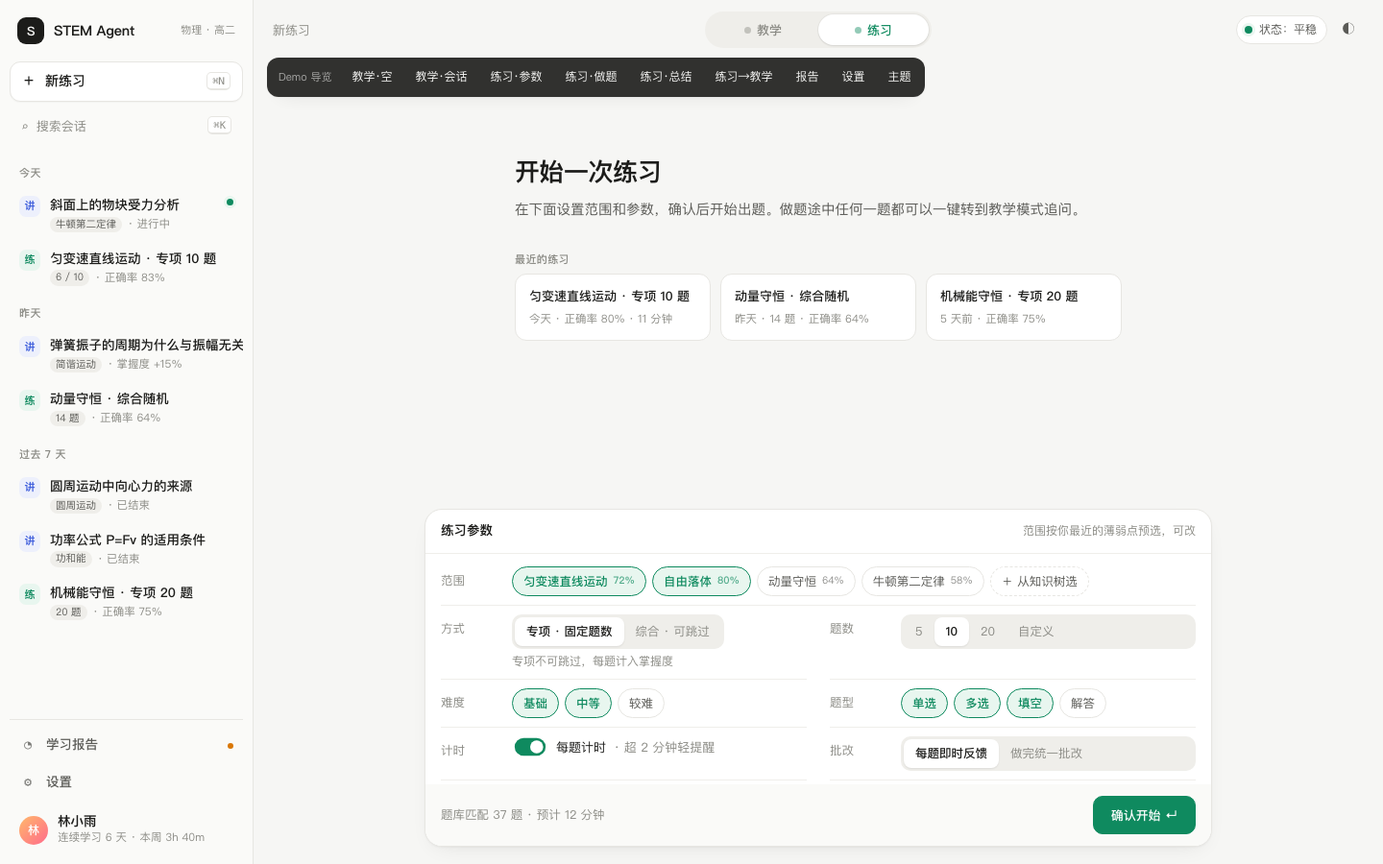
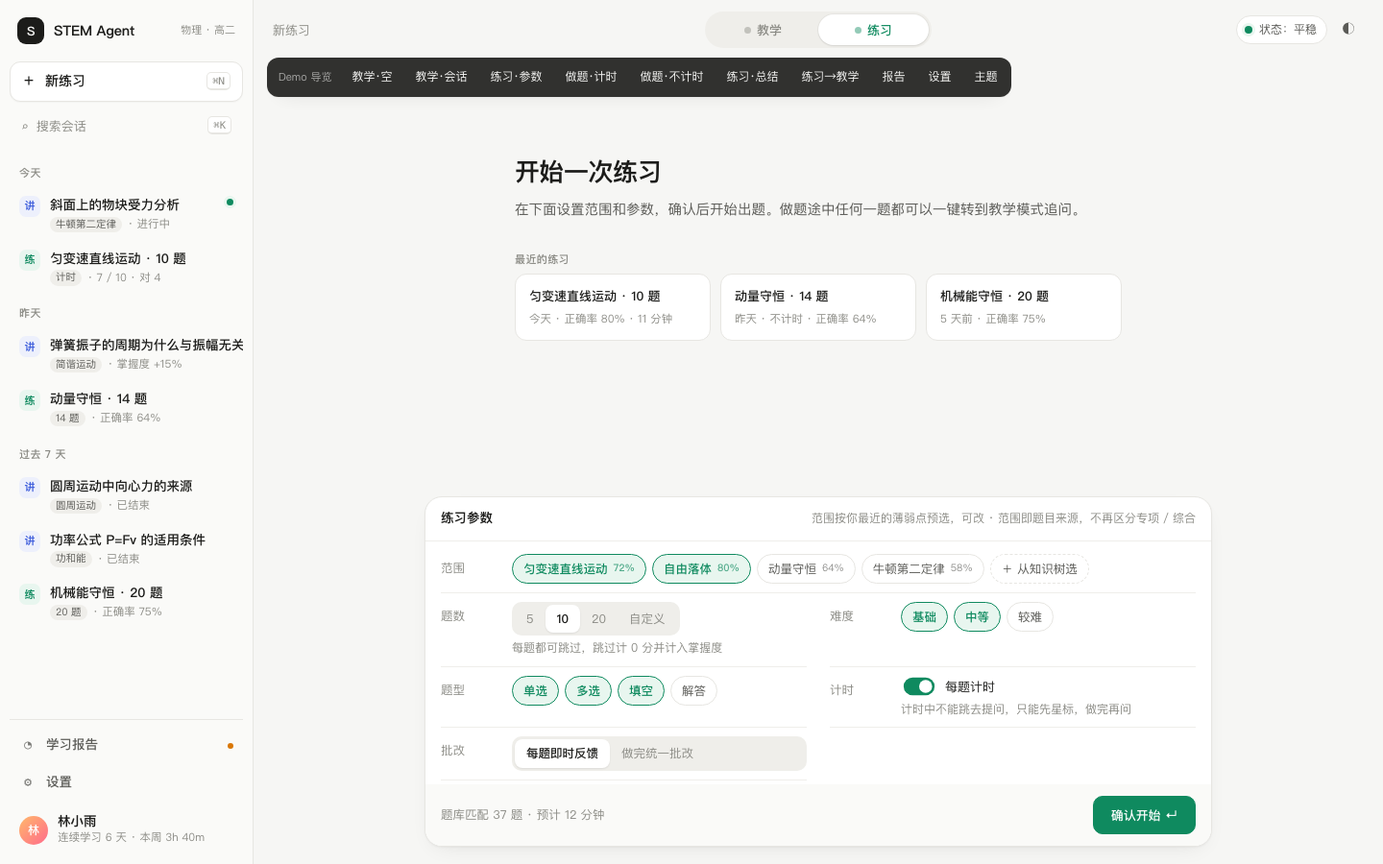
design: 练习取消专项/综合，单题展示，计时星标 / 不计时直接提问
Generated with [Claude Code](https://claude.ai/code)
via [Happy](https://happy.engineering)

diff --git a/docs/design/agent-ui-demo.html b/docs/design/agent-ui-demo.html
@@ -335,6 +335,14 @@
   .fb2 .sol { margin-top: 10px; padding: 12px 14px; border-radius: 10px; background: var(--panel-2); border: 1px solid var(--line-2); font-size: 13.5px; color: var(--ink-2); line-height: 1.7; }
   .fb2 .sol b { color: var(--ink); }
 
+  .qcard .qh .ask.star { color: var(--warn); }
+  .qcard .qh .ask.star:hover { border-color: var(--warn); background: var(--warn-soft); }
+  .qcard .qh .ask.star .t2 { display: none; }
+  .qcard .qh .ask.star.on { background: var(--warn-soft); border-color: var(--warn); }
+  .qcard .qh .ask.star.on .ic::before { content: "★"; } .qcard .qh .ask.star.on .ic { font-size: 0; } .qcard .qh .ask.star.on .ic::before { font-size: 13px; }
+  .qcard .qh .ask.star.on .t1 { display: none; } .qcard .qh .ask.star.on .t2 { display: inline; }
+  .pbar2 .dots button.star { box-shadow: 0 -5px 0 -2px var(--warn); }
+  .qfoot-note { text-align: center; margin-top: 14px; font-size: 12px; color: var(--ink-3); }
   /* bottom setup panel (replaces composer in practice mode before start) */
   .setup-panel { background: var(--panel); border: 1px solid var(--line); border-radius: 18px; box-shadow: var(--shadow); overflow: hidden; }
   .setup-panel .sh { display: flex; align-items: center; gap: 10px; padding: 12px 16px; border-bottom: 1px solid var(--line-2); font-weight: 600; font-size: 13.5px; }
@@ -371,6 +379,7 @@
   .ql .st.ok { background: var(--practice); } .ql .st.no { background: var(--bad); } .ql .st.skip { background: var(--warn); }
   .ql .t { white-space: nowrap; overflow: hidden; text-overflow: ellipsis; }
   .ql .tm { font-size: 11.5px; color: var(--ink-3); font-variant-numeric: tabular-nums; }
+  .ql.starred { border-color: var(--warn); background: var(--warn-soft); }
   .ql .ask { font-size: 12px; color: var(--teach); padding: 4px 9px; border-radius: 999px; border: 1px solid var(--line); }
   .ql .ask:hover { background: var(--teach-soft); border-color: var(--teach); }
 
@@ -466,15 +475,15 @@
       </button>
       <button class="sess" id="s-prac" onclick="go('practice')">
         <span class="glyph p">练</span>
-        <span><span class="ttl">匀变速直线运动 · 专项 10 题</span><span class="meta"><span class="tag">6 / 10</span>· 正确率 83%</span></span>
+        <span><span class="ttl">匀变速直线运动 · 10 题</span><span class="meta"><span class="tag">计时</span>· 7 / 10 · 对 4</span></span>
       </button>
       <div class="grp">昨天</div>
       <button class="sess"><span class="glyph t">讲</span><span><span class="ttl">弹簧振子的周期为什么与振幅无关</span><span class="meta"><span class="tag">简谐运动</span>· 掌握度 +15%</span></span></button>
-      <button class="sess"><span class="glyph p">练</span><span><span class="ttl">动量守恒 · 综合随机</span><span class="meta"><span class="tag">14 题</span>· 正确率 64%</span></span></button>
+      <button class="sess"><span class="glyph p">练</span><span><span class="ttl">动量守恒 · 14 题</span><span class="meta"><span class="tag">14 题</span>· 正确率 64%</span></span></button>
       <div class="grp">过去 7 天</div>
       <button class="sess"><span class="glyph t">讲</span><span><span class="ttl">圆周运动中向心力的来源</span><span class="meta"><span class="tag">圆周运动</span>· 已结束</span></span></button>
       <button class="sess"><span class="glyph t">讲</span><span><span class="ttl">功率公式 P=Fv 的适用条件</span><span class="meta"><span class="tag">功和能</span>· 已结束</span></span></button>
-      <button class="sess"><span class="glyph p">练</span><span><span class="ttl">机械能守恒 · 专项 20 题</span><span class="meta"><span class="tag">20 题</span>· 正确率 75%</span></span></button>
+      <button class="sess"><span class="glyph p">练</span><span><span class="ttl">机械能守恒 · 20 题</span><span class="meta"><span class="tag">20 题</span>· 正确率 75%</span></span></button>
     </div>
 
     <div class="rail-bottom">
@@ -582,25 +591,68 @@
           <p>在下面设置范围和参数，确认后开始出题。做题途中任何一题都可以一键转到教学模式追问。</p>
           <div class="grp" style="padding-left:0">最近的练习</div>
           <div class="recent">
-            <button class="rc" onclick="go('summary')"><b>匀变速直线运动 · 专项 10 题</b><span class="m">今天 · 正确率 80% · 11 分钟</span></button>
-            <button class="rc"><b>动量守恒 · 综合随机</b><span class="m">昨天 · 14 题 · 正确率 64%</span></button>
-            <button class="rc"><b>机械能守恒 · 专项 20 题</b><span class="m">5 天前 · 正确率 75%</span></button>
+            <button class="rc" onclick="go('summary')"><b>匀变速直线运动 · 10 题</b><span class="m">今天 · 正确率 80% · 11 分钟</span></button>
+            <button class="rc"><b>动量守恒 · 14 题</b><span class="m">昨天 · 不计时 · 正确率 64%</span></button>
+            <button class="rc"><b>机械能守恒 · 20 题</b><span class="m">5 天前 · 正确率 75%</span></button>
           </div>
         </div>
       </div>
 
-      <!-- ---------- VIEW: practice running ---------- -->
+      <!-- ---------- VIEW: practice running (timed) ---------- -->
       <div class="view" id="v-practice">
         <div class="pwrap">
           <div class="ptop">
             <div class="pbar2">
-              <span class="badge p">专项</span>
+              <span class="badge p">计时</span>
               <span>第 <span class="n">7</span> / 10 题</span>
               <div class="dots">
-                <button class="ok" title="第 1 题 · 正确"></button><button class="ok"></button><button class="no" title="第 3 题 · 错误"></button><button class="ok"></button><button class="ok"></button><button class="ok"></button><button class="cur" title="当前"></button><button></button><button></button><button></button>
+                <button class="ok" title="第 1 题 · 正确"></button><button class="ok"></button><button class="no" title="第 3 题 · 错误"></button><button class="ok"></button><button class="skip" title="第 5 题 · 跳过（0 分）"></button><button class="ok star" title="第 6 题 · 正确 · 已星标"></button><button class="cur" title="当前"></button><button></button><button></button><button></button>
               </div>
-              <span>正确 <span class="n">5</span> · 错 <span class="n">1</span></span>
+              <span>对 <span class="n">4</span> · 错 <span class="n">1</span> · 跳 <span class="n">1</span></span>
               <span class="timer">00:42</span>
+              <button class="btn ghost" style="padding:4px 8px;font-size:12px">结束练习</button>
+            </div>
+          </div>
+
+          <div class="qcard">
+            <div class="qh">
+              <span class="num">第 7 题</span><span class="badge g">单选</span><span class="badge g">中等</span><span>自由落体</span>
+              <button class="ask star" onclick="this.classList.toggle('on')" title="计时中不能提问，先星标，做完再问"><span class="ic">☆</span><span class="t1">星标</span><span class="t2">已星标</span></button>
+            </div>
+            <div class="qb">
+              <div class="stem">一物体从高处自由下落，最后 1s 内下落的高度是 25m，取 g = 10 m/s²。物体下落的总时间是？</div>
+              <div class="opts">
+                <button class="opt" onclick="pick(this)"><span class="l">A</span>2 s</button>
+                <button class="opt" onclick="pick(this)"><span class="l">B</span>2.5 s</button>
+                <button class="opt pick" onclick="pick(this)"><span class="l">C</span>3 s</button>
+                <button class="opt" onclick="pick(this)"><span class="l">D</span>3.5 s</button>
+              </div>
+            </div>
+            <div class="qnav">
+              <button class="btn">‹ 上一题</button>
+              <span class="hintk">按 <kbd>A</kbd>–<kbd>D</kbd> 选择 · <kbd>↵</kbd> 提交 · <kbd>←</kbd><kbd>→</kbd> 切题</span>
+              <span class="sp"></span>
+              <button class="btn ghost" title="跳过计 0 分">跳过</button>
+              <button class="btn pri">提交答案</button>
+              <button class="btn">下一题 ›</button>
+            </div>
+          </div>
+          <div class="qfoot-note"><span class="hintk">计时中 · 卡住就星标，做完一起问</span></div>
+        </div>
+      </div>
+
+      <!-- ---------- VIEW: practice running (untimed) ---------- -->
+      <div class="view" id="v-practice2">
+        <div class="pwrap">
+          <div class="ptop">
+            <div class="pbar2">
+              <span class="badge g">不计时</span>
+              <span>第 <span class="n">7</span> / 10 题</span>
+              <div class="dots">
+                <button class="ok" title="第 1 题 · 正确"></button><button class="ok"></button><button class="no" title="第 3 题 · 错误"></button><button class="ok"></button><button class="skip" title="第 5 题 · 跳过（0 分）"></button><button class="ok star" title="第 6 题 · 正确 · 已星标"></button><button class="cur" title="当前"></button><button></button><button></button><button></button>
+              </div>
+              <span>对 <span class="n">4</span> · 错 <span class="n">1</span> · 跳 <span class="n">1</span></span>
+              <span class="timer off">—</span>
               <button class="btn ghost" style="padding:4px 8px;font-size:12px">结束练习</button>
             </div>
           </div>
@@ -612,7 +664,7 @@
             </div>
             <div class="qb">
               <div class="stem">一物体从高处自由下落，最后 1s 内下落的高度是 25m，取 g = 10 m/s²。物体下落的总时间是？</div>
-              <div class="opts" id="opts">
+              <div class="opts">
                 <button class="opt" onclick="pick(this)"><span class="l">A</span>2 s</button>
                 <button class="opt" onclick="pick(this)"><span class="l">B</span>2.5 s</button>
                 <button class="opt pick" onclick="pick(this)"><span class="l">C</span>3 s</button>
@@ -623,30 +675,12 @@
               <button class="btn">‹ 上一题</button>
               <span class="hintk">按 <kbd>A</kbd>–<kbd>D</kbd> 选择 · <kbd>↵</kbd> 提交 · <kbd>←</kbd><kbd>→</kbd> 切题</span>
               <span class="sp"></span>
-              <button class="btn ghost" disabled title="专项模式不可跳过">跳过</button>
+              <button class="btn ghost" title="跳过计 0 分">跳过</button>
               <button class="btn pri">提交答案</button>
+              <button class="btn">下一题 ›</button>
             </div>
           </div>
-
-          <div style="height:22px"></div>
-
-          <!-- 解答题示例（已作答，含图片上传与反馈），展示另一种题型的形态 -->
-          <div class="qcard" style="opacity:.92">
-            <div class="qh">
-              <span class="num">第 6 题</span><span class="badge g">解答</span><span class="badge g">中等</span><span>匀变速直线运动</span><span class="muted">· 已提交 · 用时 1:38</span>
-              <button class="ask" onclick="go('teach2')"><span>✦</span>问这道题</button>
-            </div>
-            <div class="qb">
-              <div class="stem">汽车以 20 m/s 的速度匀速行驶，刹车后做匀减速运动，加速度大小为 5 m/s²。求刹车后 6s 内汽车的位移。<br/><span class="fig"></span></div>
-              <div class="answer">
-                <textarea class="ta" readonly>先求停止时间 t = v/a = 20/5 = 4s < 6s，所以 6s 内位移即 4s 内位移
-x = v²/(2a) = 400/10 = 40 m</textarea>
-                <div class="upl"><span class="pv"></span><div><b>草稿纸_1420.jpg</b><br/>手写过程已上传，AI 会对照批改</div></div>
-              </div>
-              <div class="fb ok fb2"><div class="ic">✓</div><div><b>正确 · 40 m</b><div class="why">你先判断了停止时间，没有直接套 6s。这个坑上周踩过一次，这次绕开了。</div>
-                <div class="sol"><b>参考解析</b><br/>刹车问题先算停止时间 t = v₀/a = 4s。6s &gt; 4s，故取 4s 内位移：x = v₀²/(2a) = 40 m。</div></div></div>
-            </div>
-          </div>
+          <div class="qfoot-note"><span class="hintk">不计时 · 随时可以转去提问</span></div>
         </div>
       </div>
 
@@ -654,35 +688,40 @@ x = v²/(2a) = 400/10 = 40 m</textarea>
       <div class="view" id="v-summary">
         <div class="pwrap">
           <div class="qcard">
-            <div class="qh"><span class="num">练习完成</span><span class="badge p">专项</span><span>匀变速直线运动 · 10 题</span><span class="muted">· 共 11 分 20 秒</span></div>
+            <div class="qh"><span class="num">练习完成</span><span class="badge p">计时</span><span>匀变速直线运动 · 自由落体 · 10 题</span><span class="muted">· 共 11 分 20 秒</span></div>
             <div class="qb">
               <div class="stats">
-                <div class="stat ok"><div class="v">8</div><div class="k">正确</div></div>
-                <div class="stat no"><div class="v">2</div><div class="k">错误</div></div>
+                <div class="stat ok"><div class="v">7</div><div class="k">正确</div></div>
+                <div class="stat no"><div class="v">3</div><div class="k">错误 · 含跳过 1</div></div>
                 <div class="stat"><div class="v">41s</div><div class="k">平均用时</div></div>
-                <div class="stat"><div class="v">+6%</div><div class="k">掌握度 66 → 72</div></div>
+                <div class="stat"><div class="v">+5%</div><div class="k">掌握度 66 → 71</div></div>
               </div>
-              <div class="qlist">
+              <div class="grp" style="padding:16px 0 6px">星标的题 <span class="muted" style="font-weight:400;text-transform:none">· 做题时标记的，现在可以问了</span></div>
+              <div class="qlist" style="margin-top:0">
+                <div class="ql starred"><span class="st ok">6</span><span class="t">★ 刹车后 6s 内位移（解答题）· 做对了但不确定为什么</span><span class="tm">1:38</span><button class="ask" onclick="go('teach2')">问这题</button></div>
+                <div class="ql starred"><span class="st no">9</span><span class="t">★ 末速度为零的匀减速，倒数第 2s 位移（逆向思维）</span><span class="tm">1:50</span><button class="ask" onclick="go('teach2')">问这题</button></div>
+              </div>
+              <div class="grp" style="padding:16px 0 6px">全部题目</div>
+              <div class="qlist" style="margin-top:0">
                 <div class="ql"><span class="st ok">1</span><span class="t">汽车匀加速启动，求 5s 末速度</span><span class="tm">22s</span><button class="ask">问这题</button></div>
                 <div class="ql"><span class="st ok">2</span><span class="t">位移时间图像判断运动性质</span><span class="tm">35s</span><button class="ask">问这题</button></div>
                 <div class="ql"><span class="st no">3</span><span class="t">刹车问题：刹车后 8s 内位移（没判断停止时间）</span><span class="tm">58s</span><button class="ask" onclick="go('teach2')">问这题</button></div>
                 <div class="ql"><span class="st ok">4</span><span class="t">初速度为零，连续相等时间内位移之比</span><span class="tm">30s</span><button class="ask">问这题</button></div>
-                <div class="ql"><span class="st ok">5</span><span class="t">追及问题：何时相距最远</span><span class="tm">64s</span><button class="ask">问这题</button></div>
-                <div class="ql"><span class="st ok">6</span><span class="t">刹车后 6s 内位移（解答题）</span><span class="tm">1:38</span><button class="ask">问这题</button></div>
+                <div class="ql"><span class="st skip">跳</span><span class="t">追及问题：何时相距最远 <span class="muted">· 跳过，计 0 分</span></span><span class="tm">12s</span><button class="ask">问这题</button></div>
+                <div class="ql"><span class="st ok">6</span><span class="t">★ 刹车后 6s 内位移（解答题）</span><span class="tm">1:38</span><button class="ask" onclick="go('teach2')">问这题</button></div>
                 <div class="ql"><span class="st ok">7</span><span class="t">自由落体最后 1s 下落 25m，求总时间</span><span class="tm">42s</span><button class="ask">问这题</button></div>
                 <div class="ql"><span class="st ok">8</span><span class="t">逐差法求加速度</span><span class="tm">40s</span><button class="ask">问这题</button></div>
-                <div class="ql"><span class="st no">9</span><span class="t">末速度为零的匀减速，倒数第 2s 位移（逆向思维）</span><span class="tm">1:50</span><button class="ask" onclick="go('teach2')">问这题</button></div>
+                <div class="ql"><span class="st no">9</span><span class="t">★ 末速度为零的匀减速，倒数第 2s 位移（逆向思维）</span><span class="tm">1:50</span><button class="ask" onclick="go('teach2')">问这题</button></div>
                 <div class="ql"><span class="st ok">10</span><span class="t">竖直上抛，上升最大高度</span><span class="tm">28s</span><button class="ask">问这题</button></div>
               </div>
             </div>
             <div class="qnav">
-              <button class="btn acc" onclick="go('teach2')">✦ 把 2 道错题发给老师讲</button>
+              <button class="btn acc" onclick="go('teach2')">✦ 把星标和错题一起发给老师讲</button>
               <button class="btn">再来一组同参数</button>
               <span class="sp"></span>
               <button class="btn ghost" onclick="go('psetup')">新建练习</button>
             </div>
           </div>
-          <p class="muted" style="font-size:12.5px;margin:14px 4px">第 9 题用了 1 分 50 秒，是这组最久的一题。这类"末速度为零"的题，倒过来看成初速度为零的匀加速会快很多。</p>
         </div>
       </div>
 
@@ -693,7 +732,7 @@ x = v²/(2a) = 400/10 = 40 m</textarea>
             <div class="who">林</div>
             <div class="body">
               <div class="handoff">
-                <div class="hh"><span>练</span>来自练习「匀变速直线运动 · 专项 10 题」第 9 题<span class="sp">答错 · 用时 1:50</span></div>
+                <div class="hh"><span>练</span>来自练习「匀变速直线运动 · 10 题」第 9 题<span class="sp">答错 · 用时 1:50</span></div>
                 <div class="hb">
                   一辆汽车做匀减速直线运动直至停止，已知它在最后 2s 内的位移是 4m，加速度大小为 2 m/s²。求汽车停止前倒数第 2 个 1s 内的位移。
                   <div class="my">我的答案：<b>1 m</b>（正确答案 3 m）</div>
@@ -808,7 +847,7 @@ x = v²/(2a) = 400/10 = 40 m</textarea>
     <div class="composer-wrap" id="setupWrap" style="display:none">
       <div class="composer" style="max-width:820px">
         <div class="setup-panel">
-          <div class="sh">练习参数<span class="sp">范围按你最近的薄弱点预选，可改</span></div>
+          <div class="sh">练习参数<span class="sp">范围按你最近的薄弱点预选，可改 · 范围即题目来源，不再区分专项 / 综合</span></div>
           <div class="sg">
             <div class="row full"><div class="lbl">范围</div><div class="tags">
               <span class="tg on">匀变速直线运动 <span class="m">72%</span></span>
@@ -817,14 +856,13 @@ x = v²/(2a) = 400/10 = 40 m</textarea>
               <span class="tg">牛顿第二定律 <span class="m">58%</span></span>
               <span class="tg add">＋ 从知识树选</span>
             </div></div>
-            <div class="row"><div class="lbl">方式</div><div><div class="radio"><button class="on">专项 · 固定题数</button><button>综合 · 可跳过</button></div><div class="hint">专项不可跳过，每题计入掌握度</div></div></div>
-            <div class="row"><div class="lbl">题数</div><div class="radio"><button>5</button><button class="on">10</button><button>20</button><button>自定义</button></div></div>
+            <div class="row"><div class="lbl">题数</div><div><div class="radio"><button>5</button><button class="on">10</button><button>20</button><button>自定义</button></div><div class="hint">每题都可跳过，跳过计 0 分并计入掌握度</div></div></div>
             <div class="row"><div class="lbl">难度</div><div class="tags"><span class="tg on">基础</span><span class="tg on">中等</span><span class="tg">较难</span></div></div>
             <div class="row"><div class="lbl">题型</div><div class="tags"><span class="tg on">单选</span><span class="tg on">多选</span><span class="tg on">填空</span><span class="tg">解答</span></div></div>
-            <div class="row"><div class="lbl">计时</div><div class="swrow"><button class="toggle on"></button><span>每题计时</span><span class="muted">· 超 2 分钟轻提醒</span></div></div>
+            <div class="row"><div class="lbl">计时</div><div><div class="swrow"><button class="toggle on" onclick="this.classList.toggle('on')"></button><span>每题计时</span></div><div class="hint">计时中不能跳去提问，只能先星标，做完再问</div></div></div>
             <div class="row"><div class="lbl">批改</div><div class="radio"><button class="on">每题即时反馈</button><button>做完统一批改</button></div></div>
           </div>
-          <div class="sf"><span class="sum">题库匹配 37 题 · 预计 12 分钟</span><button class="btn acc" onclick="go('practice')">确认开始 ↵</button></div>
+          <div class="sf"><span class="sum">题库匹配 37 题 · 预计 12 分钟</span><button class="btn acc" onclick="go(document.querySelector('#setupWrap .toggle').classList.contains('on') ? 'practice' : 'practice2')">确认开始 ↵</button></div>
         </div>
       </div>
     </div>
@@ -832,8 +870,7 @@ x = v²/(2a) = 400/10 = 40 m</textarea>
     <div class="composer-wrap" id="actWrap" style="display:none">
       <div class="composer" style="max-width:820px">
         <div class="actbar">
-          <button class="ask" onclick="go('teach2')">✦ 问这道题</button>
-          <span class="hintk">会带着题目和你的作答，新开一个教学会话</span>
+          <span class="hintk" id="actHint">计时中 · 每题可跳过（0 分），卡住就星标</span>
           <span class="sp"></span>
           <button class="btn ghost" style="font-size:12.5px">暂停</button>
           <button class="btn ghost" style="font-size:12.5px">结束练习</button>
@@ -850,7 +887,8 @@ x = v²/(2a) = 400/10 = 40 m</textarea>
   <button onclick="go('empty')">教学·空</button>
   <button onclick="go('teach')">教学·会话</button>
   <button onclick="go('psetup')">练习·参数</button>
-  <button onclick="go('practice')">练习·做题</button>
+  <button onclick="go('practice')">做题·计时</button>
+  <button onclick="go('practice2')">做题·不计时</button>
   <button onclick="go('summary')">练习·总结</button>
   <button onclick="go('teach2')">练习→教学</button>
   <button onclick="go('report')">报告</button>
@@ -864,8 +902,9 @@ x = v²/(2a) = 400/10 = 40 m</textarea>
     teach:    { mode: 'teaching', crumb: '<b>斜面上的物块受力分析</b> · 第 4 轮 · 牛顿第二定律', bottom: 'composer', sess: 's-teach' },
     teach2:   { mode: 'teaching', crumb: '<b>刹车逆向思维（来自练习第 9 题）</b> · 新会话', bottom: 'composer', sess: 's-teach2' },
     psetup:   { mode: 'practice', crumb: '新练习', bottom: 'setup' },
-    practice: { mode: 'practice', crumb: '<b>匀变速直线运动 · 专项 10 题</b> · 进行中', bottom: 'act', sess: 's-prac' },
-    summary:  { mode: 'practice', crumb: '<b>匀变速直线运动 · 专项 10 题</b> · 已完成', bottom: 'none', sess: 's-prac' },
+    practice: { mode: 'practice', crumb: '<b>匀变速直线运动 · 10 题</b> · 计时 · 进行中', bottom: 'act', sess: 's-prac' },
+    practice2: { mode: 'practice', crumb: '<b>匀变速直线运动 · 10 题</b> · 不计时 · 进行中', bottom: 'act', sess: 's-prac' },
+    summary:  { mode: 'practice', crumb: '<b>匀变速直线运动 · 10 题</b> · 已完成', bottom: 'none', sess: 's-prac' },
     report:   { mode: null, crumb: '学习报告', bottom: 'none', nav: 'n-report' },
     settings: { mode: null, crumb: '设置', bottom: 'none', nav: 'n-settings' },
   };
@@ -882,6 +921,7 @@ x = v²/(2a) = 400/10 = 40 m</textarea>
     document.getElementById('setupWrap').style.display = cfg.bottom === 'setup' ? '' : 'none';
     document.getElementById('actWrap').style.display = cfg.bottom === 'act' ? '' : 'none';
     document.getElementById('newLabel').textContent = document.body.dataset.mode === 'practice' ? '新练习' : '新对话';
+    const ah = document.getElementById('actHint'); if (ah) ah.textContent = v === 'practice2' ? '不计时 · 每题可跳过（0 分），随时可转去提问' : '计时中 · 每题可跳过（0 分），卡住就星标';
     if (v === 'teach2') { const t = document.getElementById('s-teach2'); if (t) t.style.display = ''; }
     refreshComposer(v);
     document.getElementById('stage').scrollTop = 0;
@@ -899,7 +939,7 @@ x = v²/(2a) = 400/10 = 40 m</textarea>
                   : v === 'teach2' ? '<span class="tg">练习第 9 题 <span class="x">×</span></span><span class="tg">我的作答 <span class="x">×</span></span>' : '';
   }
   function toggleTheme() { document.body.dataset.theme = document.body.dataset.theme === 'dark' ? 'light' : 'dark'; }
-  function pick(el) { document.querySelectorAll('#opts .opt').forEach(o => o.classList.remove('pick')); el.classList.add('pick'); }
+  function pick(el) { el.closest('.opts').querySelectorAll('.opt').forEach(o => o.classList.remove('pick')); el.classList.add('pick'); }
 
   const init = new URLSearchParams(location.search);
   if (init.get('theme')) document.body.dataset.theme = init.get('theme');
